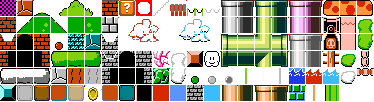
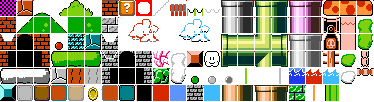
Replace castle inside bricks.

Changed region(s): [[0.7647, 0.8235, 0.8235, 1.0], [0.2647, 0.1765, 0.3235, 0.3235]]

diff --git a/README.md b/README.md
@@ -30,7 +30,7 @@ Modified from Monsterboy in Wonder World mockup assets by surt
 https://opengameart.org/content/monsterboy-in-wonder-world-mockup-assets
 License: CC-BY-SA 3.0
 
-Castle bricks and block debris
+Castle bricks, castle inside bricks and block debris
 Modified from RPG Tile Set 'Military Base' NES by Chasersgaming (https://chasersgaming.itch.io/)
 https://opengameart.org/content/rpg-tile-set-military-base-nes
 License: CC0
